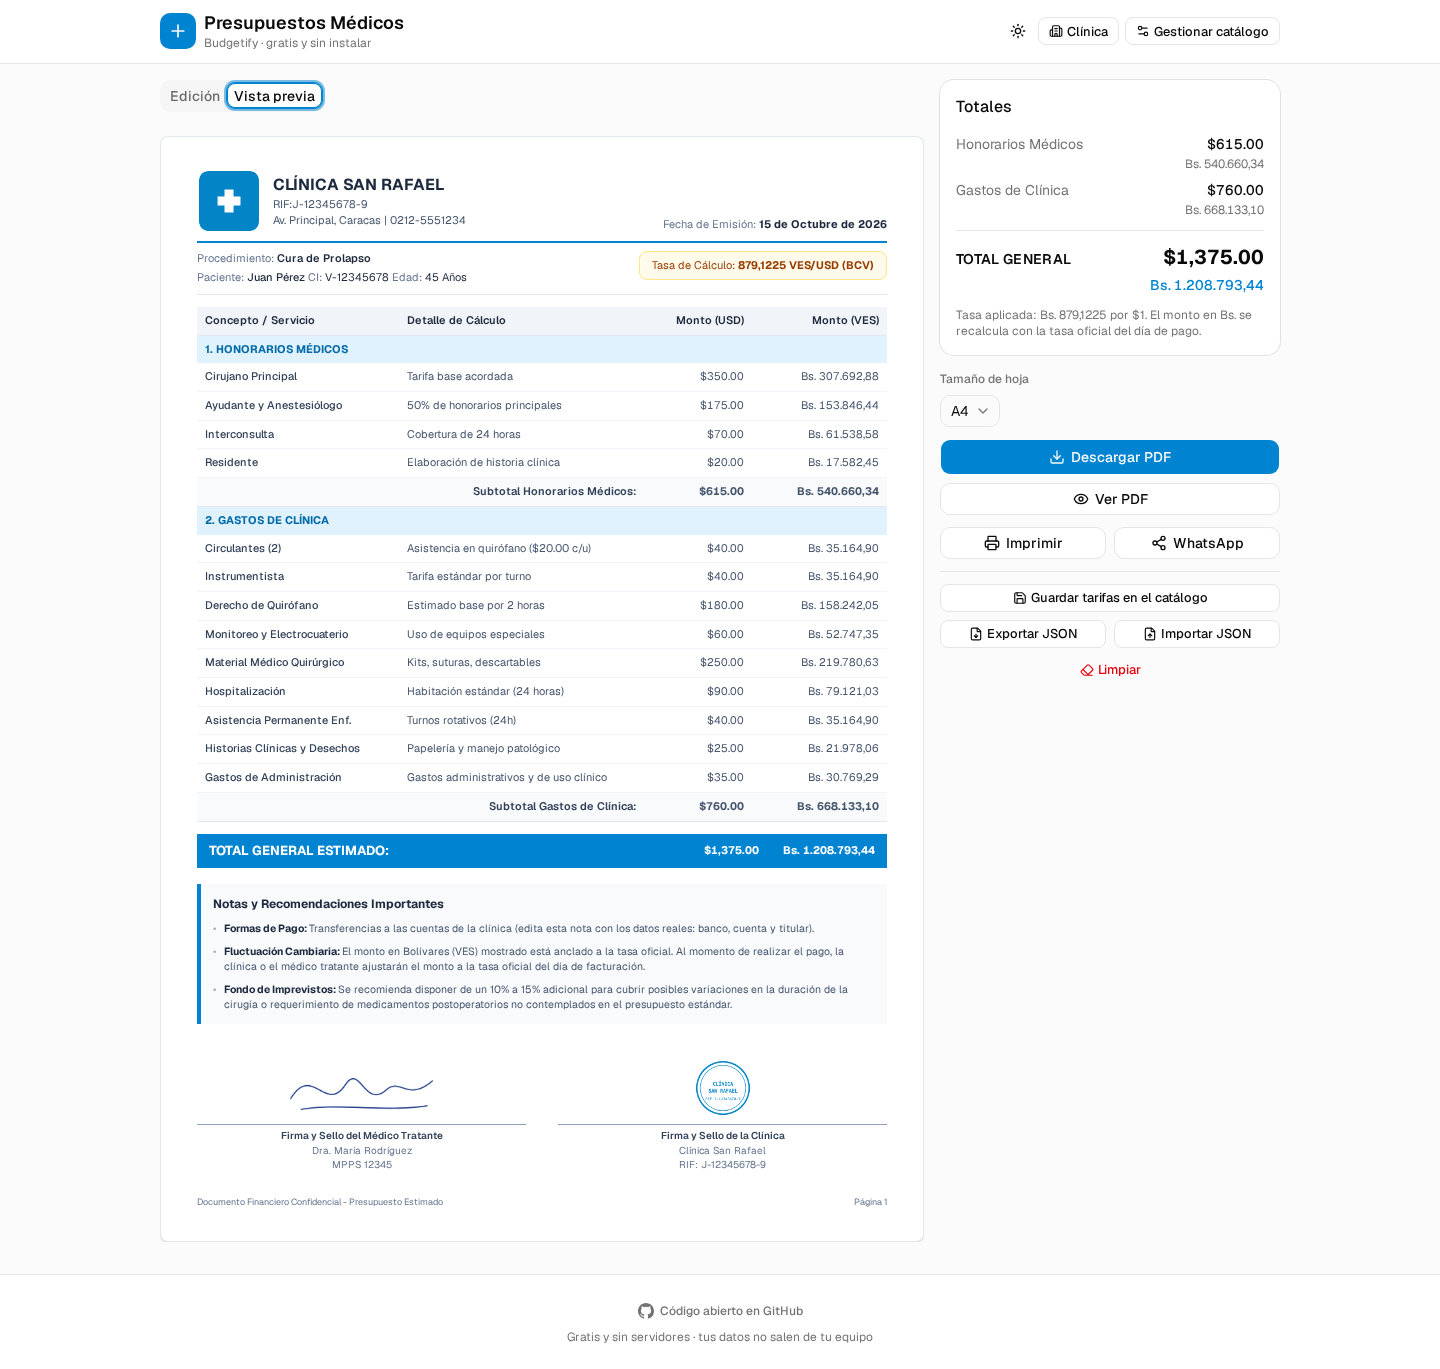
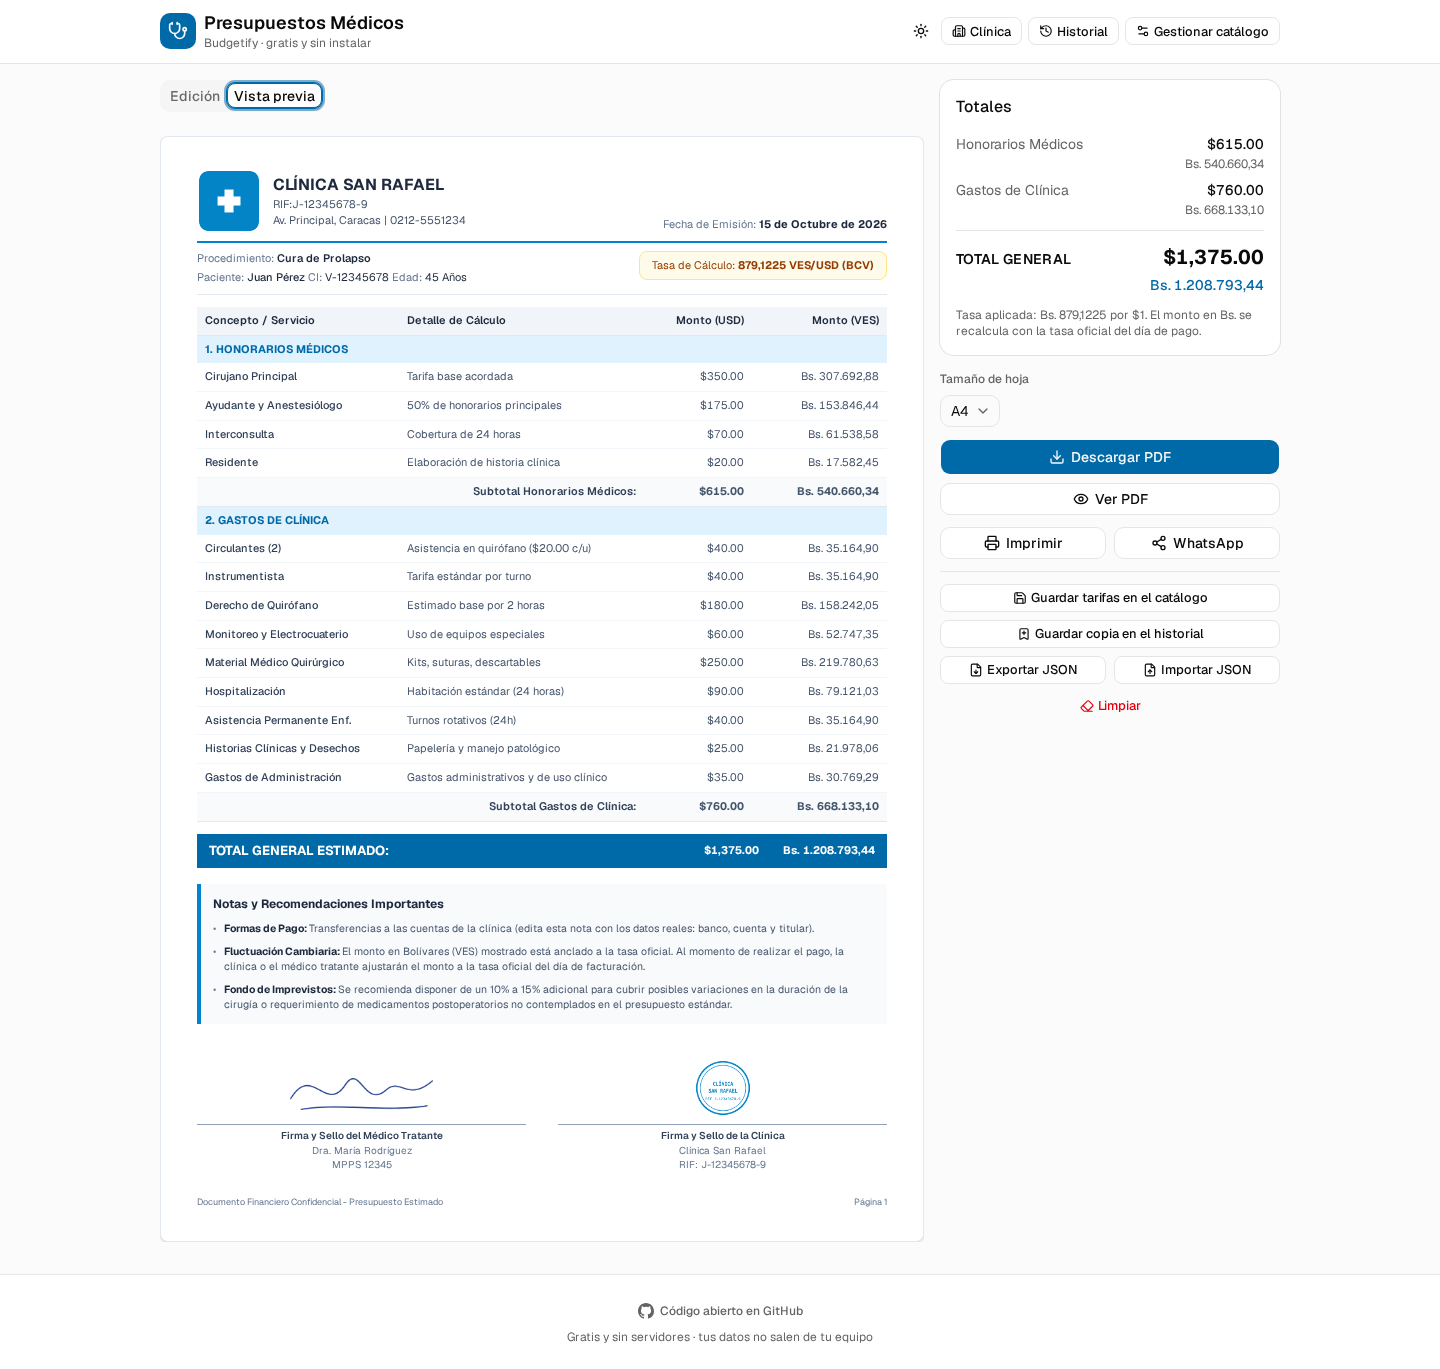
docs: historial, deshacer y capturas al día
- README: el historial de copias, el respaldo en archivo y qué se puede
  deshacer; el historial entra también en la explicación de privacidad.
- Documentación técnica: el historial y sus reglas (tope, validación al
  leer, por qué se guarda el presupuesto entero), los dos mecanismos de
  protección (deshacer o confirmar), la prueba de humo con Playwright y
  cómo mide el contraste, la estructura y el almacén v7.
- Fuera de la tabla del stack React Hook Form (se retiró en el bloque 1).
- Capturas regeneradas con la interfaz actual: cabecera con el símbolo
  nuevo y «Historial», columna de concepto más ancha y selector de
  categoría. Se generan con la tasa fija para que no cambien solas.

diff --git a/docs/DESARROLLO.md b/docs/DESARROLLO.md
@@ -10,11 +10,12 @@ usar la aplicación, mira el [README](../README.md).
 | Build | Vite 8 + TypeScript 6 (`strict`) |
 | UI | React 19 · Tailwind CSS 4 · shadcn/ui (Radix) |
 | Estado | Zustand 5 (+ `persist` con debounce) |
-| Formularios | React Hook Form + Zod 4 |
+| Formularios | Campos controlados + Zod 4 (valida lo guardado y lo importado) |
 | Dinero | `decimal.js` (nunca `float` para cálculos) |
 | PDF | `@react-pdf/renderer` (carga perezosa) |
 | PWA | `vite-plugin-pwa` |
 | Tests | Vitest 5 + Testing Library + jsdom |
+| Navegador | Playwright (prueba de humo y contraste) |
 
 Sin backend, sin login, sin base de datos remota.
 
@@ -31,6 +32,7 @@ npm test           # tests (Vitest)
 npm run typecheck  # sólo comprobación de tipos
 npm run lint       # oxlint
 npm run icons      # regenera los iconos PWA
+npm run test:e2e   # prueba de humo en Chromium (necesita `npm run build` antes)
 ```
 
 ## 💰 Modelo de datos y cálculo
@@ -104,33 +106,68 @@ src/
 │  ├─ document.ts           # modelo compartido vista previa + PDF   ← tests
 │  ├─ logo.ts               # subida y redimensionado de imágenes
 │  ├─ io.ts                 # esquemas Zod + export/import JSON      ← tests
+│  ├─ limits.ts             # límites de longitud y del historial
+│  ├─ undo.ts               # aviso de "deshacer" tras un borrado     ← tests
 │  └─ describe.ts  ids.ts  utils.ts
 ├─ store/
 │  ├─ useBudgetStore.ts     # Zustand + persist + migraciones
 │  ├─ migrate.ts            # validación/migración de lo guardado     ← tests
 │  ├─ useThemeStore.ts      # tema claro/oscuro/sistema
+│  ├─ useUiStore.ts         # estado de interfaz (PDF en curso)
 │  └─ storage.ts            # almacenamiento con debounce de 500 ms
 ├─ hooks/                   # useCalc, useTheme, usePdfActions
 ├─ components/              # UI (formularios, tabla, clínica, vista previa…)
 ├─ pdf/                     # plantilla @react-pdf/renderer + acciones
 └─ styles/shadcn.css        # base de shadcn/ui (vendida)
 scripts/generate-icons.mjs  # genera los iconos PWA (sin dependencias)
-.github/workflows/ci.yml    # CI: lint + tipos + tests + build
+e2e/                        # prueba de humo en navegador + medición de contraste
+playwright.config.ts        # Playwright: sirve `dist` con `vite preview`
+.github/workflows/ci.yml    # CI: lint + tipos + tests + build + prueba de humo
 vercel.json                 # configuración de despliegue
 ```
 
 ## 🗃 Persistencia y migraciones
 
-- El borrador, el catálogo, los datos de la clínica, el modo de tasa y el tamaño de
-  hoja se guardan en `localStorage` con **debounce de 500 ms**.
+- El borrador, el catálogo, los datos de la clínica, el modo de tasa, el tamaño de
+  hoja y el **historial** se guardan en `localStorage` con **debounce de 500 ms**.
 - La clave es `budgetify:v1` y hay **migraciones versionadas** (`version` + `migrate`).
-  Ahora mismo: **v6** (áreas de práctica y encabezado de la hoja). La migración vive en
+  Ahora mismo: **v7** (historial de presupuestos guardados). La migración vive en
   `store/migrate.ts` (`migratePersisted`) para poder probarla sin arrancar la app:
   **valida con Zod** lo guardado y cae a los valores por defecto de cada parte si algo no
   encaja, en lugar de romper el arranque.
 - `migrateCatalogDefaults()` añade áreas, categorías, servicios y plantillas nuevas, y
   etiqueta con su área los servicios conocidos **sin pisar** los precios que el usuario
   haya editado.
+
+## 🕘 Historial local
+
+`SavedBudget` (`types.ts`) es una entrada del historial: `id`, `savedAt` y el
+**presupuesto entero**. Se guarda la copia completa a propósito —y no una
+referencia— porque un presupuesto entregado hace un mes debe abrirse tal como
+se entregó, aunque el catálogo haya cambiado desde entonces. El nombre del
+paciente, el número de líneas y el total **no** se almacenan: se derivan al
+mostrar la lista (`HistoryDialog`), así no hay datos duplicados que se queden
+desfasados.
+
+- **Tope**: `HISTORY_LIMIT` (100) en `lib/limits.ts`. Al superarlo se descartan
+  las más antiguas y `saveToHistory()` devuelve cuántas se cayeron para que la
+  interfaz lo avise. El mismo tope se aplica **al leer** (`historySchema`): un
+  `localStorage` manipulado a mano con 10.000 entradas no se carga en memoria.
+- Abrir una copia **reemplaza** el borrador en curso, y eso también se puede
+  deshacer.
+
+### Deshacer o confirmar
+
+Dos mecanismos, según lo que se pierde:
+
+- **Deshacer** (`lib/undo.ts`): para lo granular y reversible —borrar una línea,
+  una nota, una categoría o una copia del historial, o cargar otro presupuesto—.
+  El aviso guarda una referencia al estado anterior (el store es inmutable) y lo
+  restaura. Solo hay un aviso de deshacer a la vez, el más reciente.
+- **Confirmación** (`ConfirmDialog`, sobre Radix `AlertDialog`): para lo que
+  reemplaza todo de golpe y no se puede reconstruir de memoria —“Limpiar”,
+  “Restablecer catálogo”, “Reemplazar plantilla”—. Si además es reversible, el
+  diálogo deja deshacer después.
 
 ## 🩺 Áreas de práctica
 
@@ -163,16 +200,37 @@ Cubren:
 - **Documento**: modelo compartido (procedimiento, categorías numeradas, cantidad y
   unitario, notas con etiqueta, firmas) y tamaño de hoja.
 - **Estado**: pack → ítems → total, edición de precios sin tocar el catálogo,
-  sincronización de tarifas, tasa BCV (auto/manual) y datos de la clínica.
+  sincronización de tarifas, tasa BCV (auto/manual), datos de la clínica e
+  historial (guardar, cargar, borrar, copia independiente del borrador y tope).
+- **Migración**: lo guardado por versiones anteriores, datos corruptos y el
+  recorte del historial.
 - **Catálogo**: integridad, packs y migración.
 - **Interfaz** (jsdom + Testing Library): línea manual, recálculo del total, reagrupar
   al cambiar de categoría, tema y vista previa.
 - **Humo**: render de la app completa sin DOM.
+- **Deshacer**: que un clic en un aviso no cierre el diálogo modal.
+
+### Prueba de humo en un navegador de verdad (`npm run test:e2e`)
+
+Playwright sirve `dist` con `vite preview` (que aplica las **mismas cabeceras**
+de `vercel.json`) y comprueba que la app monta, suma una línea, calcula el total
+y **mide el contraste real** de cuatro textos clave (título, botón primario,
+texto secundario y la barra de total del documento), en tema claro y oscuro,
+exigiendo el **4,5:1** de WCAG AA.
+
+El contraste se mide dentro de la página (`e2e/contrast.ts`): Chromium devuelve
+los colores en `oklch()` y desde Node no se pueden convertir, así que se pinta
+cada color en un canvas de 1×1 y se leen los píxeles; el fondo se busca subiendo
+por los antepasados y componiendo las capas semitransparentes. Antes de medir se
+espera a que terminen las transiciones: cambiar de tema las dispara y a mitad de
+camino los colores son intermedios.
 
 ## 🔁 CI
 
 `.github/workflows/ci.yml` ejecuta lint, typecheck, tests y build en cada push/PR a
-`main`, y publica `dist/` como artefacto.
+`main`, y publica `dist/` como artefacto. Un segundo job (`e2e`) descarga ese
+artefacto, instala Chromium y corre la prueba de humo; si falla, sube el informe
+de Playwright.
 
 ## ▲ Despliegue en Vercel
 
@@ -193,6 +251,13 @@ No hace falta backend: la app es estática y la tasa se consulta desde el navega
 ## 🧭 Decisiones de diseño
 
 - Se guardan **fórmulas**, no montos calculados: los totales se **derivan** siempre.
+- Del historial se guarda el **presupuesto entero**, no una referencia al catálogo: una
+  copia de hace un mes tiene que abrirse igual que cuando se entregó. El precio que se
+  paga es el espacio (por eso hay tope), no la fidelidad.
+- Cuando cambias el **tipo de fórmula** de una línea, el importe no se pierde: de
+  “precio fijo” a “cantidad × unitario” se conserva el monto como precio unitario. En los
+  tipos porcentuales el importe depende de la referencia, así que arrancan al 100 % de
+  ella en vez de a cero.
 - El catálogo es una **biblioteca** aparte del presupuesto: editar un precio en un
   presupuesto no lo cambia en la biblioteca salvo que se pida explícitamente
   (*Guardar tarifas en el catálogo*).

diff --git a/README.md b/README.md
@@ -27,7 +27,9 @@ escribas datos reales de pacientes en ella.)*
   categoría y el total general.
 - **La tasa del dólar (BCV)** se actualiza sola; también la puedes escribir a mano.
 - **Descarga el PDF**, lo imprimes o lo compartes por WhatsApp.
-- **Guarda una copia** de tus presupuestos en un archivo (Exportar / Importar).
+- **Historial**: guarda copias dentro del navegador (hasta 100) y vuelve a abrir
+  cualquier presupuesto anterior cuando el paciente regrese.
+- **Respaldo en archivo**: Exportar / Importar JSON para llevarte todo a otro equipo.
 
 ## El documento que genera
 
@@ -69,6 +71,8 @@ con tu nombre y tu título (“Od. Ana Rojas”) y debajo tu área de práctica.
    o “Todo el catálogo” para ver los 129 servicios.
 4. Revisa y ajusta los precios en la tabla. Todo se recalcula al instante.
 5. Pulsa **“Descargar PDF”**. También puedes **imprimirlo** o **mandarlo por WhatsApp**.
+   Si quieres conservarlo a mano, **“Guardar copia en el historial”** (arriba, en
+   **Historial**, lo vuelves a abrir después).
 6. La primera vez, entra en **“Clínica”**: elige si el presupuesto es de una **clínica** o
    de un **profesional independiente**, escribe tu **título** (Dr., Dra., Od., Lcda.…) y tu
    **área de práctica**, y carga el RIF, el logo, la firma y el sello.
@@ -84,8 +88,15 @@ Sí, son privados. **Nada se envía a ningún servidor**: todo se guarda únicam
 navegador. No hay cuentas, no hay registro y no hay base de datos.
 
 **¿Dónde quedan los presupuestos guardados?**
-En el navegador del equipo donde trabajas. Si cambias de computadora o quieres un respaldo,
-usa **“Exportar JSON”** y luego **“Importar JSON”** en el otro equipo.
+En el navegador del equipo donde trabajas. Además del que estás editando, puedes archivar
+copias en **“Historial”** (se conservan las 100 últimas; al pasar de ahí se descartan las
+más viejas y la app te avisa). Si cambias de computadora o quieres un respaldo, usa
+**“Exportar JSON”** y luego **“Importar JSON”** en el otro equipo.
+
+**Me equivoque, ¿puedo volver atrás?**
+Sí. Al borrar una línea, una nota, una categoría o una copia del historial, o al reemplazar
+el presupuesto, aparece un aviso con **“Deshacer”**. Lo que sí borra de verdad es
+**“Limpiar”**: para eso pide confirmación.
 
 **¿Puedo cambiar los precios?**
 Sí. En **“Gestionar catálogo”** puedes editar precios, agregar o borrar servicios, crear
@@ -130,8 +141,9 @@ pero **no sustituye tu criterio médico ni administrativo**.
 - **Sin rastreadores**: no hay analítica ni cookies de terceros.
 - La **única** conexión externa es la consulta de la tasa del BCV (que no lleva datos
   tuyos). Si la desmarcas y usas la tasa a mano, no hay ninguna conexión.
-- Los datos quedan guardados **en este navegador**. En una computadora compartida, pulsa
-  **Limpiar** al terminar (o usa una ventana de incógnito).
+- Los datos quedan guardados **en este navegador**, incluido el **historial** de copias. En
+  una computadora compartida, pulsa **Limpiar** al terminar, vacía el historial (cada copia
+  se puede borrar) o usa una ventana de incógnito.
 - Detalles y cómo reportar un problema: **[política de seguridad](SECURITY.md)**.
 
 ## ¿Quieres colaborar?
@@ -156,7 +168,8 @@ the patient's data, pick services, and download a ready-to-print **PDF** in USD 
 It ships with **practice-area catalogues** (Surgery, General Medicine, Dentistry, Trauma &
 Orthopaedics, Paediatrics, OB-GYN and Dermatology) plus cross-cutting services such as
 nursing and lab work, and the document can be headed either by a clinic or by the
-professional ("Dr. Jane Doe" over her specialty).
+professional ("Dr. Jane Doe" over her specialty). It keeps a **local history** of up to 100
+estimates you can reopen, and every destructive action offers an undo.
 
 **Live demo:** [budgetify-silk.vercel.app](https://budgetify-silk.vercel.app)
 
